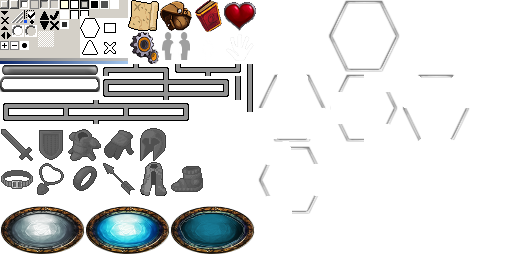
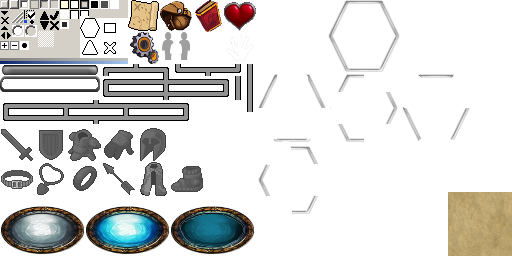
some gui work; added a background image for the maine pane and portrait pane

Changed region(s): [[0.875, 0.75, 1.0, 1.0]]

diff --git a/docs/Contributors.html b/docs/Contributors.html
@@ -47,6 +47,7 @@ Thanks to a number of individuals and groups at http://opengameart.org:
 <li>JAP (OpenGameArt.org user)</li>
 <li>Jetrel (OpenGameArt.org user)</li>
 <li>josepzin and the Glest team (http://glest.org)</li>
+<li>Lamoot</li>
 <li>Lancel (OpenGameArt.org user)</li>
 <li>Lorc (OpenGameArt.org user)</li>
 <li>Matt Merkulov (OpenGameArt.org user)</li>

diff --git a/src/net/sf/hale/widgets/MainPane.java b/src/net/sf/hale/widgets/MainPane.java
@@ -139,8 +139,8 @@ public class MainPane extends Widget {
 		movementMode.setSize(movementMode.getPreferredWidth(), movementMode.getPreferredHeight());
 		stop.setSize(stop.getPreferredWidth(), stop.getPreferredHeight());
 		
-		movementMode.setPosition(windowButtons[4].getX(), windowButtons[4].getBottom() + rowGap);
-		stop.setPosition(windowButtons[0].getX(), movementMode.getY());
+		movementMode.setPosition(windowButtons[1].getX(), windowButtons[1].getBottom() + rowGap);
+		stop.setPosition(windowButtons[0].getX(), windowButtons[0].getBottom() + rowGap);
 		
 		endTurn.setSize(endTurn.getPreferredWidth(), endTurn.getPreferredHeight());
 		
